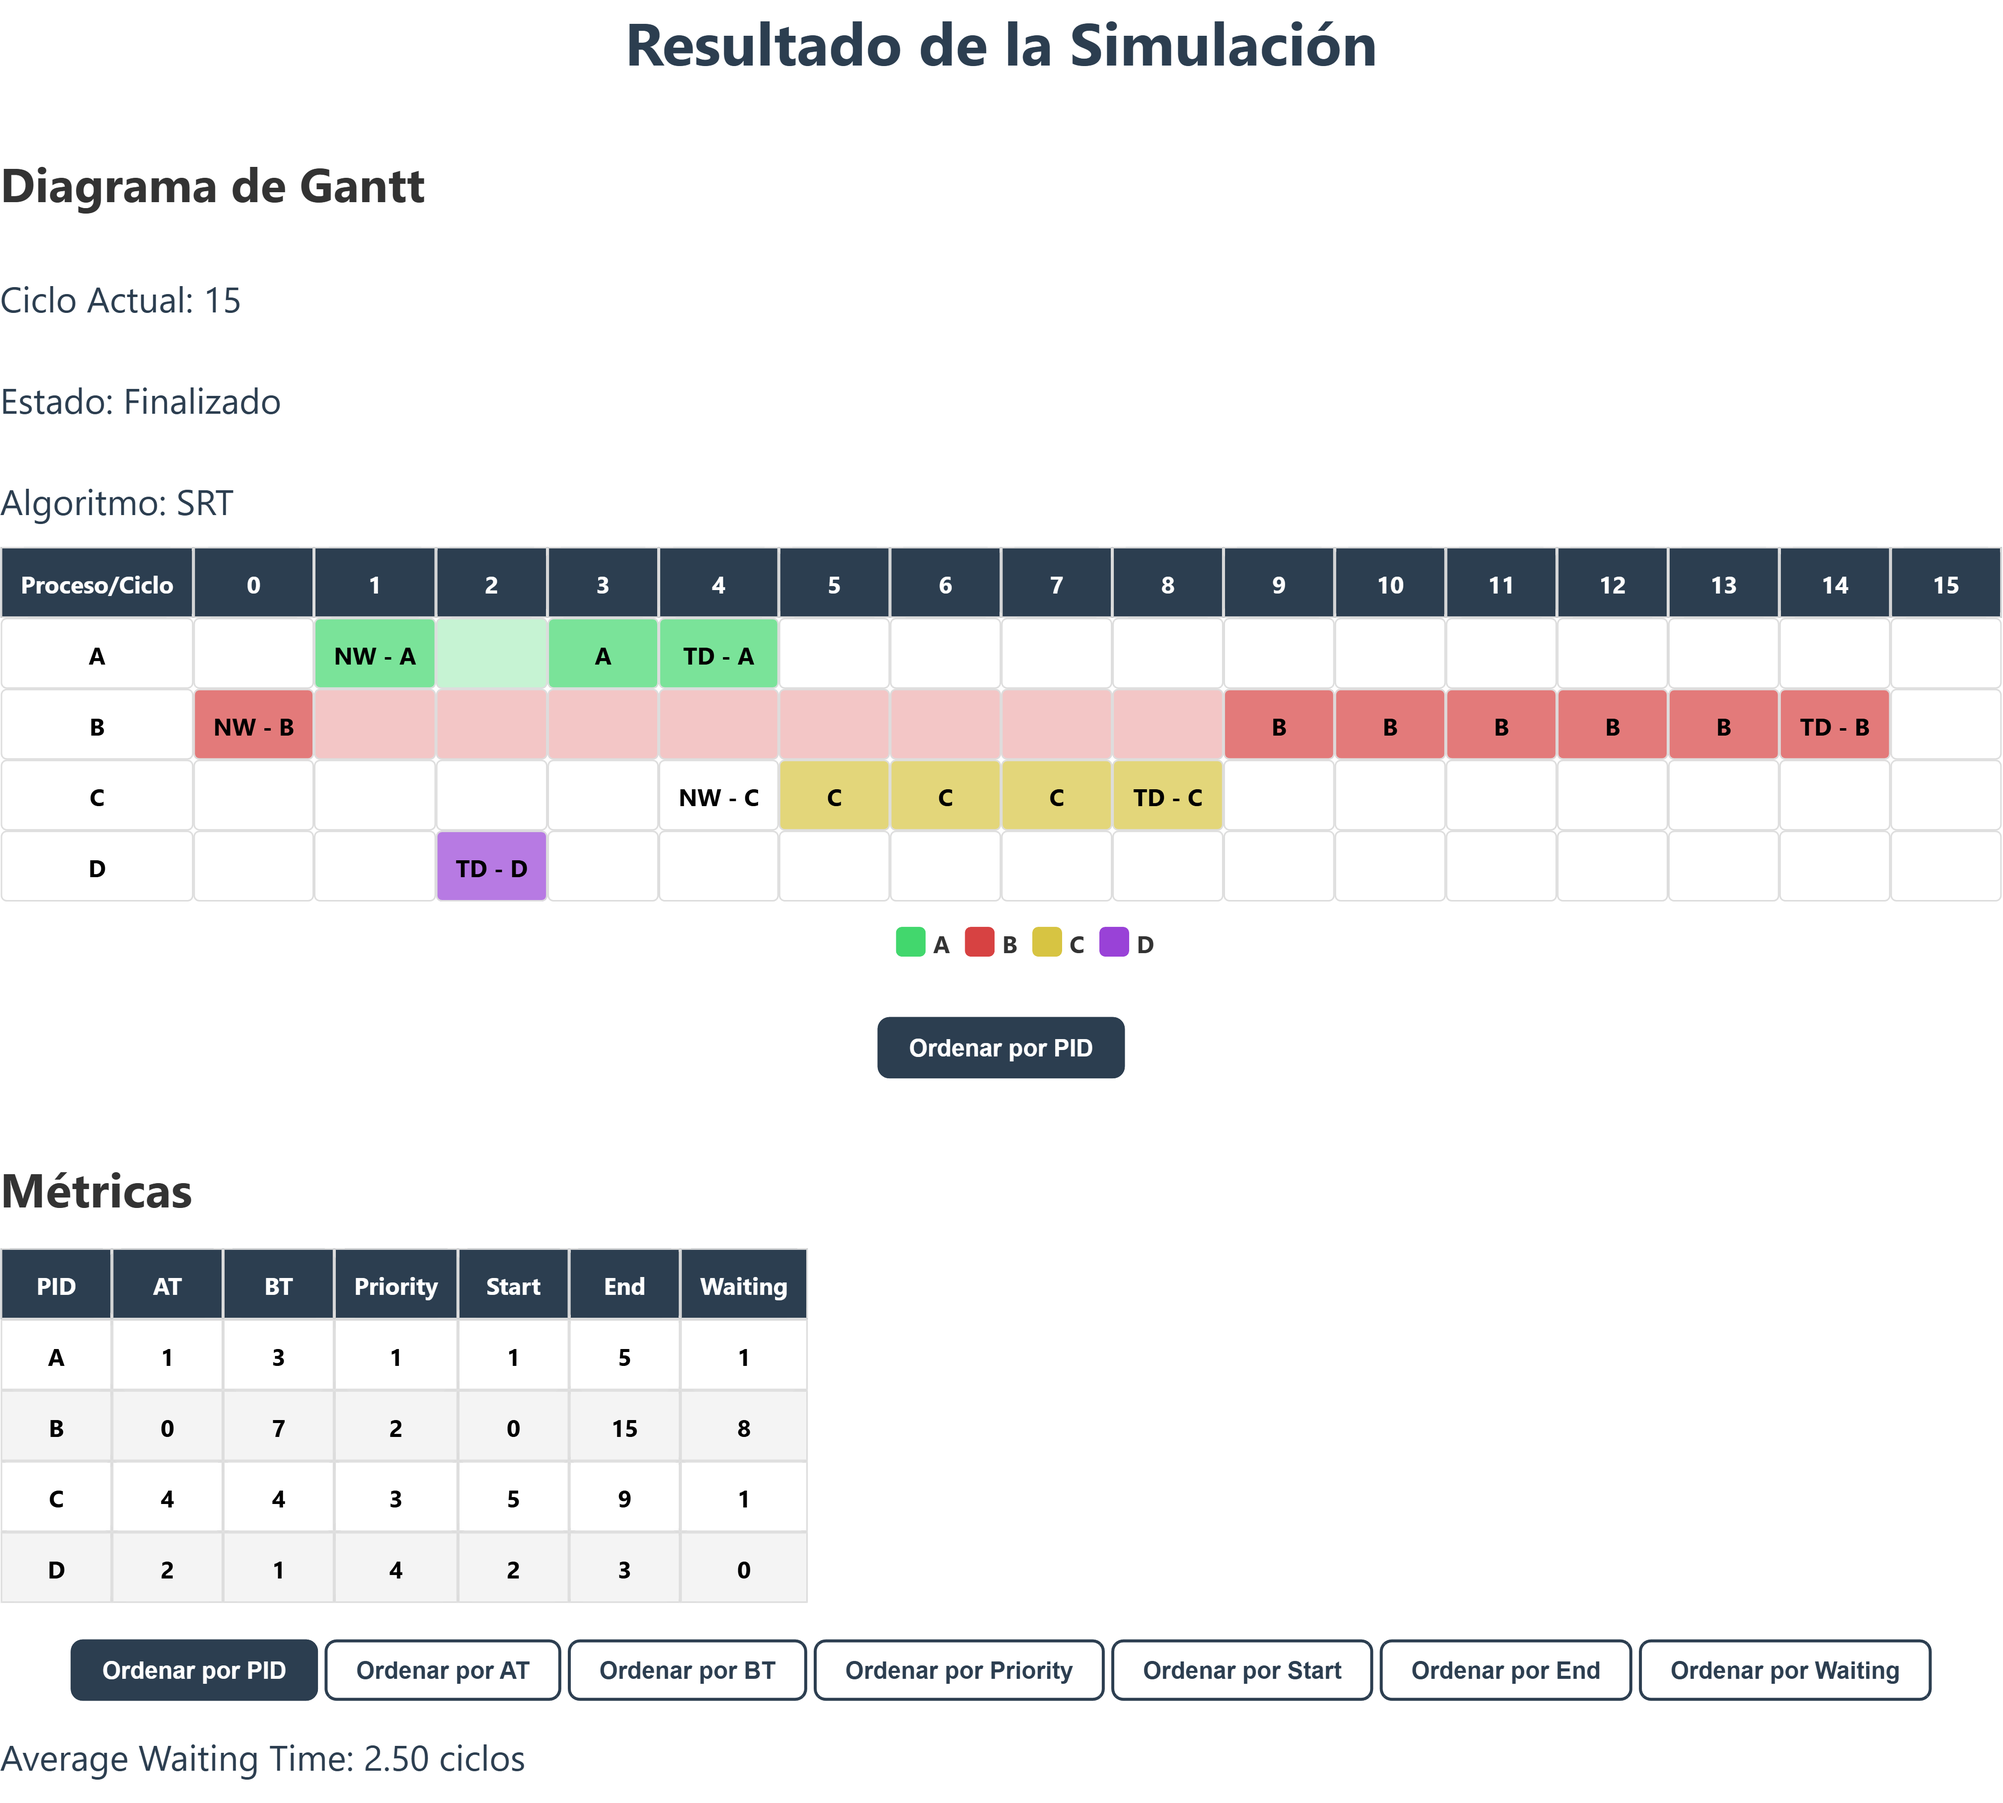
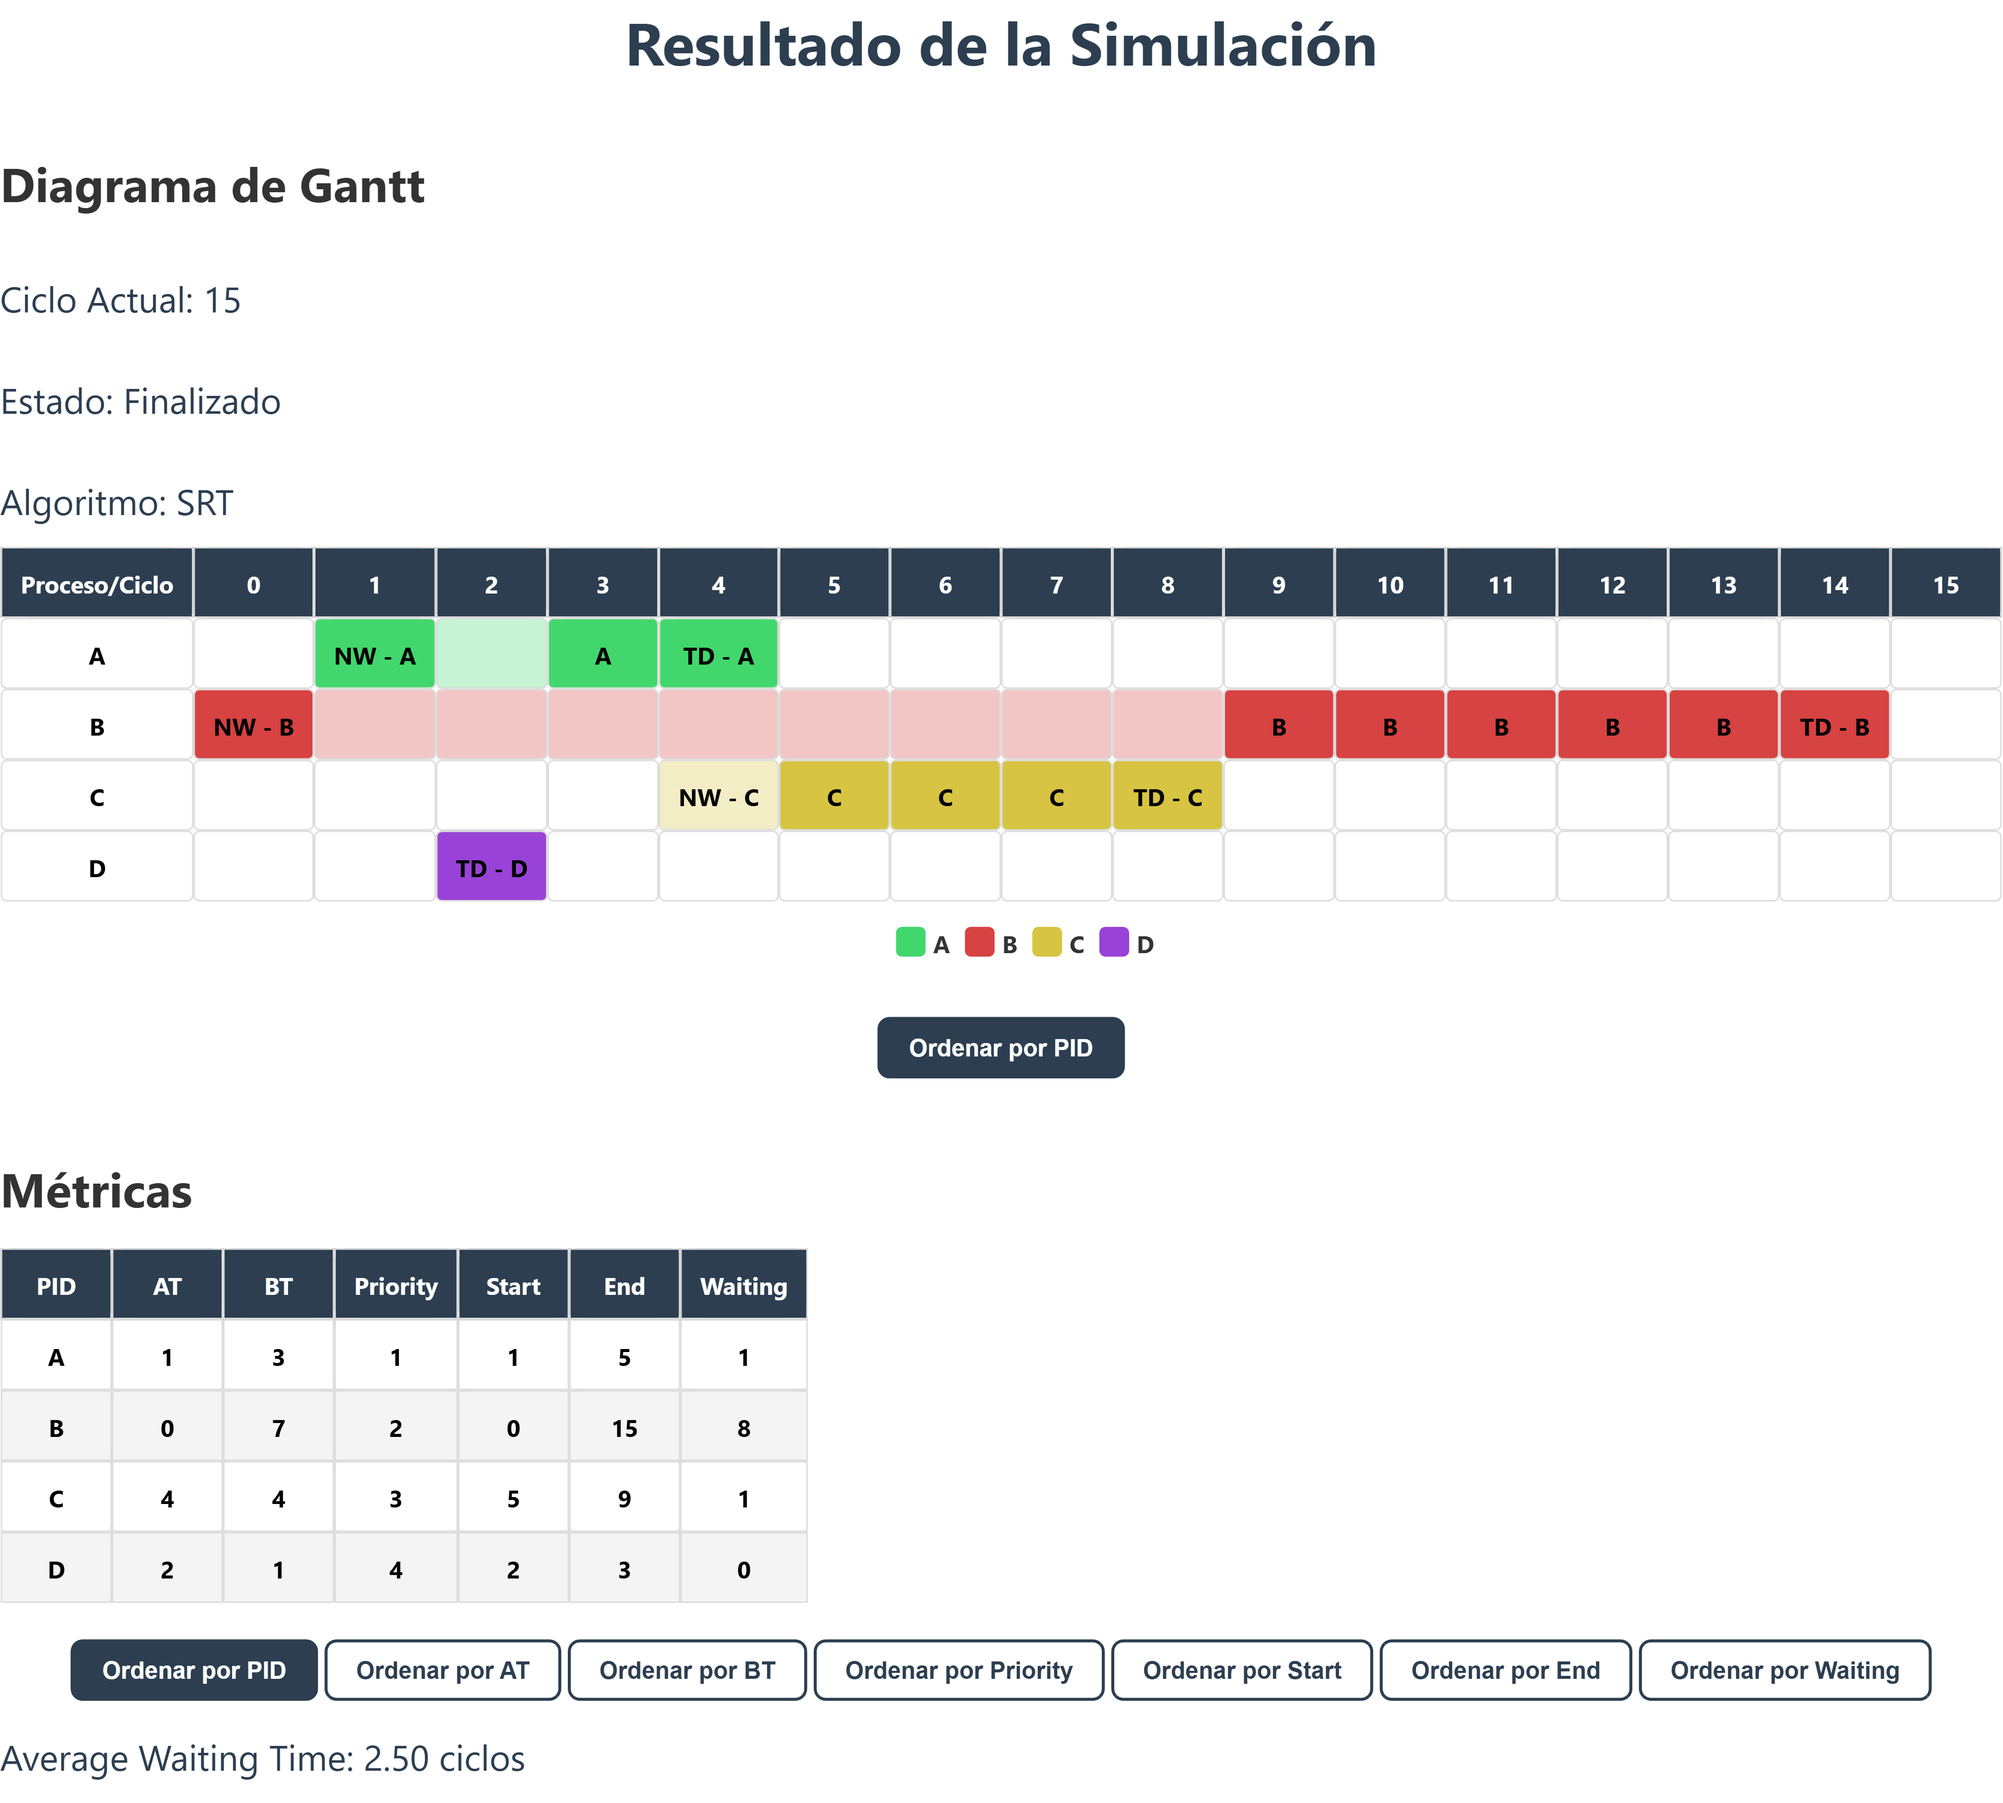
cambio manejo de empate para escoger proceso

Changed region(s): [[0.25, 0.3424, 0.9688, 0.4669], [0.0938, 0.3424, 0.2188, 0.4358], [0.2188, 0.4358, 0.2812, 0.4981]]

diff --git a/backend/src/srt.c b/backend/src/srt.c
@@ -3,6 +3,7 @@
 #include <string.h>
 #include <unistd.h>
 #include <limits.h>
+#include <stdbool.h>
 
 /**
  * Simula la planificación SRT (Shortest Remaining Time) en tiempo real para un conjunto de procesos.
@@ -34,6 +35,8 @@ void simulateSRT(Process *processes, int processCount,
   int completed = 0;
   int remainingTime[MAX_PROCESSES];
   *eventCount = 0;
+  bool newPrinted[MAX_PROCESSES] = {false};
+  int lastExecutedIdx = -1;
 
   for (int i = 0; i < processCount; i++)
   {
@@ -43,6 +46,7 @@ void simulateSRT(Process *processes, int processCount,
     if (processes[i].arrivalTime == 0)
     {
       printEventForProcess(&processes[i], 0, STATE_NEW, events, eventCount);
+      newPrinted[i] = true;
     }
   }
 
@@ -51,24 +55,41 @@ void simulateSRT(Process *processes, int processCount,
     // Registrar procesos que acaban de llegar
     for (int i = 0; i < processCount; i++)
     {
-      if (processes[i].arrivalTime == currentTime)
+      if (processes[i].arrivalTime == currentTime && !newPrinted[i])
       {
         printEventForProcess(&processes[i], currentTime, STATE_NEW, events, eventCount);
+        newPrinted[i] = true;
       }
     }
 
     int shortestIdx = -1;
     int minRemaining = INT_MAX;
 
+    // Escoger el proceso con menor bt a ejecutar
     for (int i = 0; i < processCount; i++)
     {
       if (processes[i].arrivalTime <= currentTime &&
           processes[i].state != STATE_TERMINATED &&
-          remainingTime[i] > 0 &&
-          remainingTime[i] < minRemaining)
+          remainingTime[i] > 0)
       {
-        minRemaining = remainingTime[i];
-        shortestIdx = i;
+        if (remainingTime[i] < minRemaining)
+        {
+          minRemaining = remainingTime[i];
+          shortestIdx = i;
+        }
+        else if (remainingTime[i] == minRemaining) // empate bt
+        {
+          // continuar con el proceso que ya estaba ejecutando
+          if (i == lastExecutedIdx)
+          {
+            shortestIdx = i;
+          }
+          // Si ninguno estaba ejecutando, elegimos el de mayor prioridad (menor valor)
+          else if (shortestIdx != lastExecutedIdx && processes[i].priority < processes[shortestIdx].priority)
+          {
+            shortestIdx = i;
+          }
+        }
       }
     }
 
@@ -100,6 +121,7 @@ void simulateSRT(Process *processes, int processCount,
     printEventForProcess(p, currentTime, STATE_ACCESSED, events, eventCount);
     currentTime++;
     remainingTime[shortestIdx]--;
+    lastExecutedIdx = shortestIdx;
     usleep(SIMULATION_DELAY_US);
 
     // Si termina

diff --git a/backend/src/sjf.c b/backend/src/sjf.c
@@ -3,6 +3,7 @@
 #include <string.h>
 #include <unistd.h>
 #include <stdlib.h>
+#include <stdbool.h>
 
 /**
  * Simula la planificación SJF (Shortest Job First) no expropiativa en tiempo real para un conjunto de procesos.
@@ -34,24 +35,26 @@ void simulateSJF(Process *processes, int processCount,
   int currentTime = 0;
   int completed = 0;
   *eventCount = 0;
+  bool newPrinted[MAX_PROCESSES] = {false};
 
-  // Emitir NEW si llegaron en tiempo 0
+  // NEW si llegaron en tiempo 0
   for (int i = 0; i < processCount; i++)
   {
     if (processes[i].arrivalTime == 0)
     {
       printEventForProcess(&processes[i], 0, STATE_NEW, events, eventCount);
+      newPrinted[i] = true;
     }
   }
-
   while (completed < processCount)
   {
     // Registrar procesos que llegan justo en este ciclo
     for (int i = 0; i < processCount; i++)
     {
-      if (processes[i].arrivalTime == currentTime)
+      if (processes[i].arrivalTime == currentTime && !newPrinted[i])
       {
         printEventForProcess(&processes[i], currentTime, STATE_NEW, events, eventCount);
+        newPrinted[i] = true;
       }
     }
 
@@ -63,7 +66,10 @@ void simulateSJF(Process *processes, int processCount,
       if (processes[i].arrivalTime <= currentTime &&
           processes[i].state != STATE_TERMINATED)
       {
-        if (shortestIdx == -1 || processes[i].burstTime < processes[shortestIdx].burstTime)
+        if (shortestIdx == -1 ||
+            processes[i].burstTime < processes[shortestIdx].burstTime ||
+            (processes[i].burstTime == processes[shortestIdx].burstTime &&
+             processes[i].arrivalTime < processes[shortestIdx].arrivalTime))
         {
           shortestIdx = i;
         }
